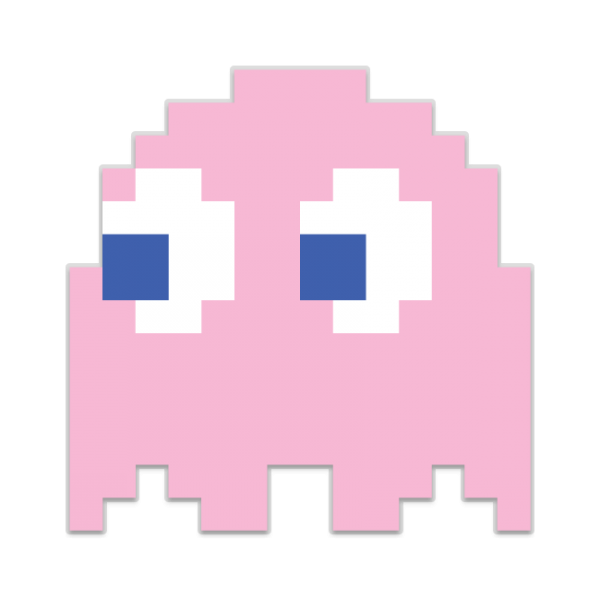
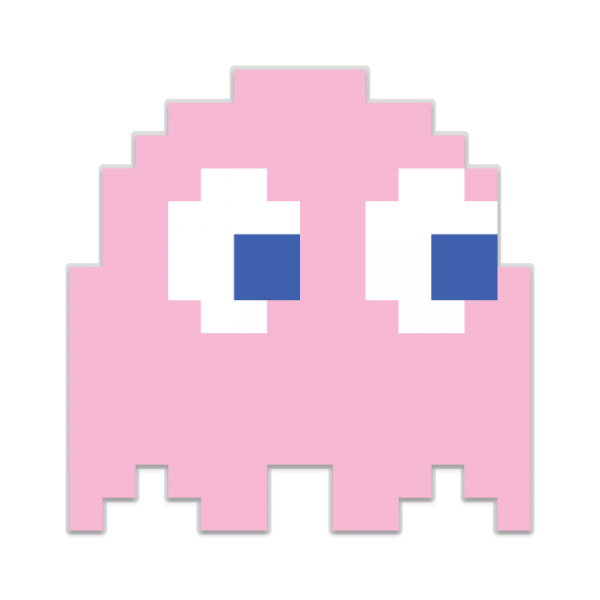
ajout des yeux

Changed region(s): [[0.15, 0.27, 0.84, 0.57]]

diff --git a/MON_RENDUGRAPHIQUEPROPREETPASDEGUELASSECOEMMETOI.py b/MON_RENDUGRAPHIQUEPROPREETPASDEGUELASSECOEMMETOI.py
@@ -305,7 +305,9 @@ class Renderer:
         sprite_resized: pygame.Surface = pygame.transform.smoothscale(
             sprite, (self.c_s, self.c_s)
         )
-
+        # Le regard suis la direction
+        if ghost.direction == Direction.WEST:
+            sprite_resized = pygame.transform.flip(sprite_resized, True, False)
         px: float = gx * self.c_s + maze_ox + offset_x
         py: float = gy * self.c_s + maze_oy + offset_y
 
